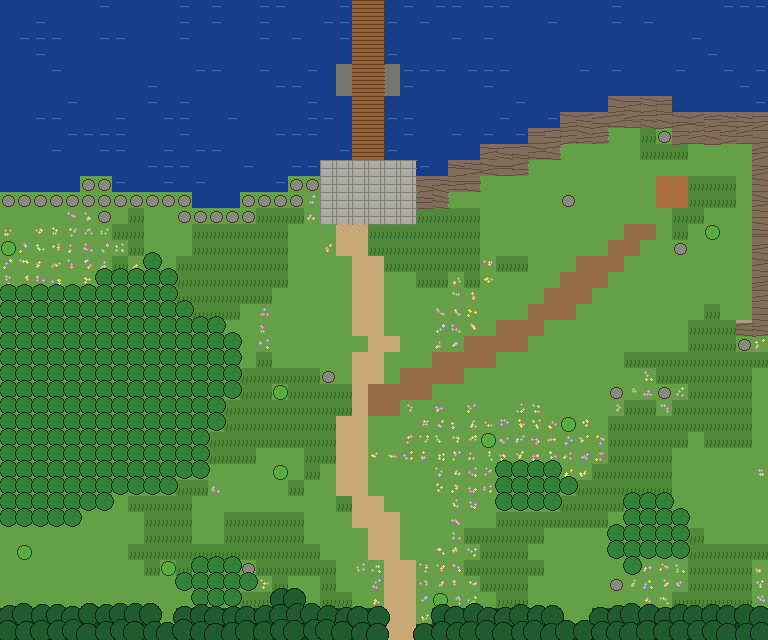
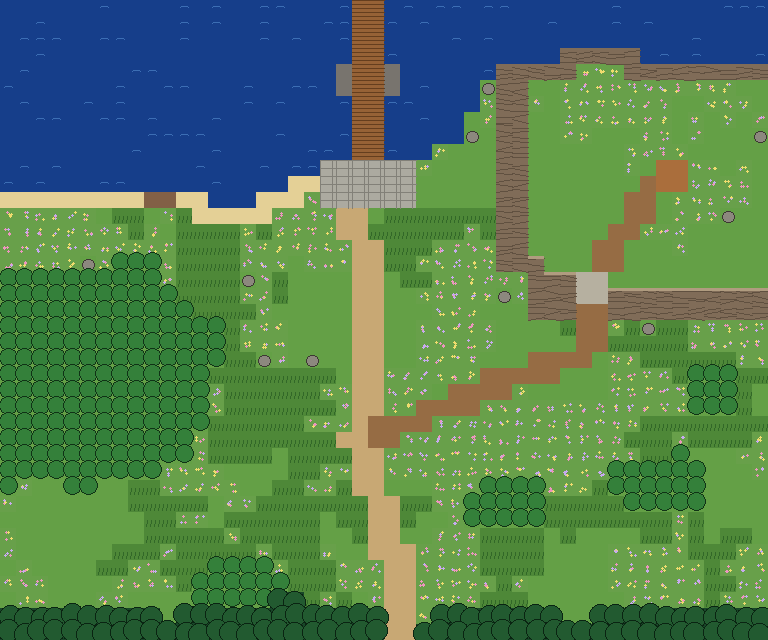
v2: checkpoint in-progress agent work (field areas)
Claude-Session: https://claude.ai/code/session_0177zLTT6UFzP7vKu3AgJSLT

Changed region(s): [[0.0, 0.0625, 1.0, 1.0], [0.7188, 0.2812, 0.75, 0.3438], [0.5, 0.8438, 0.5625, 0.875]]

diff --git a/chronicle/design/art_ref/gen/env/_tools/under/field/areas.py b/chronicle/design/art_ref/gen/env/_tools/under/field/areas.py
@@ -185,57 +185,62 @@ def f_cape():
 
 
 def f_lookout():
-    """見晴らし台と跳ね橋: the north shore of the peninsula. The road from the south (f_roa) to the timber drawbridge over the strait (N edge ->
-    f_cross; raised until the prologue ends: tilePatch + closed layer), the bridge-keeper's stone abutment with lamps; on the east a raised
-    grassy bluff above the sea with the wooden lookout tower and the old lamp (the lamp quest), a bench, the chest at the bluff's tip;
-    on the west a heath of heather and a birch wood, a rocky north shore."""
+    """見晴らし台と跳ね橋 (identity: a purple heather heath on the north shore, a timber drawbridge on stone piers over a grey strait,
+    a high bluff with a wooden lookout tower). The road from the south (f_roa) to the drawbridge (N edge -> f_cross; raised until the
+    prologue ends: tilePatch + closed layer), the stone abutment with lamps and the bridge-keeper; the bluff (E) rises behind a rock
+    face, a stair cut through it, the lookout tower, the old lamp (the lamp quest), a bench, the chest at the bluff's tip; a shingle
+    beach with an upturned fishing boat (W), a birch copse, heather everywhere."""
     from scipy import ndimage
     a = Area('f_lookout', 48, 40, 37)
     W, H = a.W, a.H
-    a.mask_fill(fbm(5, W, H, 5) > 0.55, ';')
-    a.mask_fill(fbm(6, W, H, 4) > 0.62, '"', only=',;')      # heather
-    land = [(-3, 13), (6, 11.5), (14, 12.5), (19, 11), (27, 11), (33, 8.5), (40, 6.5), (47, 7.5), (51, 8), (51, 43), (-3, 43)]
-    L = a.region(land, ',', rough=1.1, seed=3, only='')
-    sea = ~L
-    a.mask_fill(sea, '~', force=True)
-    dsea = ndimage.distance_transform_edt(L)
     ys, xs = np.mgrid[0:H, 0:W]
-    a.mask_fill(L & (dsea <= 1.6) & (xs < 20), 'r', force=True)          # rocky west shore
-    a.mask_fill(L & (dsea <= 2.0) & (xs >= 26), 'R', force=True)          # the bluff's sea cliffs
-    a.mask_fill(L & (dsea <= 1.2) & (xs >= 20) & (xs < 26), 's', force=True)   # a strip of shingle at the abutment
-    # the raised bluff (east): its landward edge is a low cliff with steps on the south-west
-    bl = a.region([(30, 8), (48, 6), (48, 21), (41, 22.5), (33, 19.5), (29.5, 14)], ',', rough=0.9, seed=8, only='')
-    edge = bl & ~ndimage.binary_erosion(bl) & L & (dsea > 2.0)
-    a.mask_fill(bl & L & (dsea > 2.0), ',', force=True)
-    a.mask_fill(bl & L & (dsea > 2.0) & (fbm(9, W, H, 4) > 0.6), ';')
-    a.mask_fill(edge, 'R', force=True)
-    # road: south edge -> the abutment -> the drawbridge (x 22-23)
-    a.stroke([(24.5, 40.5), (24.5, 35), (22, 29), (23.5, 22), (22.5, 16), (22.5, 12.5)], 2.0, '.', wobble=0.2, seed=6)
-    a.rect(20, 10, 6, 4, 'c', force=True, keep=True)      # the stone abutment (flagstones)
-    a.rect(22, 0, 2, 10, '=', force=True, keep=True)      # the drawbridge
-    a.mark('piers', [(21, 4), (24, 4), (21, 5), (24, 5)], 'the two stone PIERS of the drawbridge standing in the sea either side of the deck, with the lifting chains and timber frame of the drawbridge', (120, 116, 110))
-    # the footpath up the bluff: from the road east, the steps through its edge, on to the lookout
-    stair = a.stroke([(24, 25), (29, 22.5), (33.5, 20.2), (36.5, 17.5), (40, 14.5)], 1.5, ':', force=True)
-    a.mark('lookout', [(41, 11), (42, 11), (41, 12), (42, 12)], 'a tall wooden LOOKOUT TOWER on four timber legs with a railed platform and a little shingle roof, a ladder on its south side', (170, 110, 60))
-    # heath and birch wood (west), groves
-    a.region([(-3, 18), (10, 17), (15, 22), (12, 30), (4, 33), (-3, 32)], 'T', rough=1.4, seed=11, only=',;"')
-    for (x, y, rx, ry, s_) in [(33, 30, 2.4, 1.8, 12), (13, 36, 2.6, 1.6, 13), (40, 33, 2.8, 2.0, 14), (7, 24, 1.4, 1.2, 15)]:
+    a.mask_fill(fbm(5, W, H, 5) > 0.5, ';')
+    a.mask_fill(fbm(6, W, H, 4) > 0.5, '"', only=',;')      # heather
+    land = [(-3, 12.5), (8, 11.5), (15, 12.5), (20, 10.5), (26, 10.5), (29.5, 8), (31, 5), (38, 3.5), (46, 4.5), (51, 5), (51, 43), (-3, 43)]
+    L = a.region(land, ',', rough=1.0, seed=3, only='')
+    a.mask_fill(~L, '~', force=True)
+    dsea = ndimage.distance_transform_edt(L)
+    a.mask_fill(L & (dsea <= 1.8) & (xs < 20), 's', force=True)            # shingle beach (W)
+    a.mask_fill(L & (dsea <= 0.9) & (xs < 20) & (fbm(11, W, H, 2) > 0.55), 'r', force=True)
+    # the bluff: high ground, sea cliffs on its sea sides, a rock face on its land sides
+    bl = (xs >= 31) & (ys <= 19) & L
+    bl &= ~((xs < 34) & (ys > 16))
+    a.mask_fill(bl & (dsea <= 1.6), 'R', force=True)
+    face = bl & ~ndimage.binary_erosion(bl, iterations=2, border_value=1) & (dsea > 1.6)
+    face &= (ys >= 17) | (xs <= 32)
+    a.mask_fill(face, 'R', force=True)
+    a.mask_fill(bl & ~face & (dsea > 1.6), ',', force=True)
+    a.mask_fill(bl & ~face & (dsea > 1.6) & (fbm(9, W, H, 4) > 0.55), '"')
+    a.rect(33, 16, 1, 4, 'R', force=True)     # the face's south-west corner
+    # road: south edge -> abutment -> drawbridge (x 22-23)
+    a.stroke([(24.5, 40.5), (24.5, 34), (22.5, 28), (23.5, 21), (22.5, 15), (22.5, 12.5)], 2.0, '.', wobble=0.2, seed=6)
+    a.rect(20, 10, 6, 3, 'c', force=True, keep=True)
+    a.rect(22, 0, 2, 10, '=', force=True, keep=True)
+    a.mark('piers', [(21, 4), (24, 4), (21, 5), (24, 5)], 'the two massive stone PIERS of the drawbridge in the sea either side of the deck, with the lifting chains and the tall timber frame of the drawbridge', (120, 116, 110))
+    # footpath: from the road east to the stair cut through the bluff's face, on up to the lookout
+    a.stroke([(24, 27), (30, 24.5), (36.5, 22), (37, 19.5), (38.5, 15), (41, 11.8)], 1.5, ':', force=True)
+    a.mark('stair', [(36, 18), (37, 18), (36, 17), (37, 17)], 'a flight of rough STONE STEPS cut up through the rock face onto the bluff (walkable)', (182, 176, 160), solid=False)
+    a.rect(36, 17, 2, 2, 'c', force=True, keep=True)
+    a.mark('lookout', [(41, 10), (42, 10), (41, 11), (42, 11)], 'a tall wooden LOOKOUT TOWER on four timber legs with a railed platform and a little shingle roof, a ladder on its south side', (170, 110, 60))
+    a.mark('boat', [(9, 12), (10, 12)], 'an old UPTURNED FISHING BOAT lying keel-up on the shingle, weathered planks, a coil of rope', (130, 96, 70))
+    # the birch copse (W) and groves
+    a.region([(-3, 17), (9, 16.5), (14, 21), (12, 29), (5, 31), (-3, 30)], 'T', rough=1.3, seed=11, only=',;"')
+    for (x, y, rx, ry, s_) in [(31, 31, 2.4, 1.8, 12), (14, 36, 2.6, 1.6, 13), (41, 30, 2.8, 2.0, 14), (44, 24, 1.6, 1.3, 15)]:
         a.blob(x, y, rx, ry, 'T', rough=0.35, seed=s_, only=',;"')
     a.region([(-3, 37.5), (48, 38.5), (51, 43), (-3, 43)], 'F', rough=1.0, seed=16, only=',;"')
-    a.scatter('r', 0.015, only=',;"', seed=31, clear=1)
-    a.scatter('b', 0.012, only=',;"', seed=32, clear=1)
+    a.scatter('r', 0.012, only=',;"', seed=31, clear=1)
     a.tidy()
     a.exit('s', 24, 25, {'map': 'f_roa', 'spawn': 'north'}, 'south')
     a.exit('n', 22, 23, {'map': 'f_cross', 'spawn': 'bridge'}, 'bridge')
     a.objects += [
         dict(type='waylamp', id='wl_pen_lookout', x=40, y=12, lit='prologue_lamp_lookout', event='world_pen_lamp'),
-        dict(type='examine', x=41, y=12, event='world_poi_pen_lookout'),
-        dict(type='sign', x=38, y=15, text='見晴らし台\n半島の北の海を見わたす。'),
-        dict(type='prop', id='bench', x=43, y=14),
-        dict(type='prop', id='lamp_post', x=20, y=13), dict(type='prop', id='lamp_post', x=25, y=10),
+        dict(type='examine', x=41, y=11, event='world_poi_pen_lookout'),
+        dict(type='sign', x=38, y=16, text='見晴らし台\n半島の北の海を見わたす。'),
+        dict(type='prop', id='bench', x=44, y=13),
+        dict(type='prop', id='lamp_post', x=20, y=12), dict(type='prop', id='lamp_post', x=25, y=10),
         dict(type='prop', id='bollard', x=21, y=10),
         dict(type='sign', x=26, y=13, text='跳ね橋\n北 → 北の野'),
-        dict(type='chest', id='f_lookout_c1', x=45, y=9, item='i_ether', n=1),
+        dict(type='chest', id='f_lookout_c1', x=45, y=7, item='i_ether', n=1),
     ]
     a.meta = dict(name='見晴らし台', sub='跳ね橋と北の海', region='prologue', worldRect=[238, 214, 70, 46], outside='sea',
                   zones=[{'rect': None, 'zone': 'zw_peninsula'}],

diff --git a/chronicle/design/art_ref/gen/env/_tools/under/field/mkjob.py b/chronicle/design/art_ref/gen/env/_tools/under/field/mkjob.py
@@ -10,6 +10,7 @@ W, H = d['w'], d['h']
 SCENE = {
     'f_roa': """ROLLING SHEEP HILLS on a quiet peninsula at the edge of a storytellers' hill village: soft green pasture hills, patches of taller meadow grass and wild flowers, a winding packed-earth road with cart ruts and grass down its middle, a clear little creek with pebbly banks meandering north to south, an arched grey stone bridge where the road crosses it, old woods along the west and south edges, a rocky ridge of grey crags in the north-east beyond the creek, groves of broad-leaf trees, a pond with reeds, an old stone windmill on the far bank of the creek. Early-summer palette: fresh bright greens, buttercup yellows, pale stone. Calm, pastoral, lived-in and a little mysterious (the old stones, the old well).""",
     'f_cape': """A WINDSWEPT SEA CAPE at the southern end of a green peninsula: a grassy plateau of wind-combed grass and heather with a packed-earth road running east to the grey stone gatehouse of a harbour town, a narrow footpath winding south along the cape's spine to a tall old lighthouse standing on the rocky tip; HIGH SEA CLIFFS of layered brown-grey rock drop into a deep blue-green sea along the south-east with white surf at their foot; on the west a sheltered cove with a pale sandy beach, tide pools and wet rocks, turquoise shallows; a few rugged sea stacks with birds' ledges stand offshore; groves of wind-bent trees. Palette: sea-washed greens, heather mauve and sea-pink thrift on the cliff tops, grey-brown rock, deep blue-green sea, pale sand. Dramatic, fresh, open to the sky.""",
+    'f_lookout': """A HEATHER HEATH ON THE NORTH SHORE of a green peninsula, facing a grey-green sea strait: rolling moorland carpeted with purple and pink heather and gorse, a packed-earth road running north to a stone abutment and a long timber DRAWBRIDGE on massive stone piers striding out across the strait to the far shore (the far end leaves the top edge), a shingle beach of grey pebbles with an upturned old boat, a copse of white-barked birches, and in the east a high grassy BLUFF above the sea behind a rock face with a stair cut through it, a wooden lookout tower and a bench at its top. Palette: heather purple and mauve, gorse yellow, silver birch, slate-grey sea. Wild, airy, a little lonely.""",
 }
 
 KEY = """- mid green = open GRASS (walkable): short grass with natural variation, clover, tiny flowers, worn patches (FLAT, no objects standing on it).
